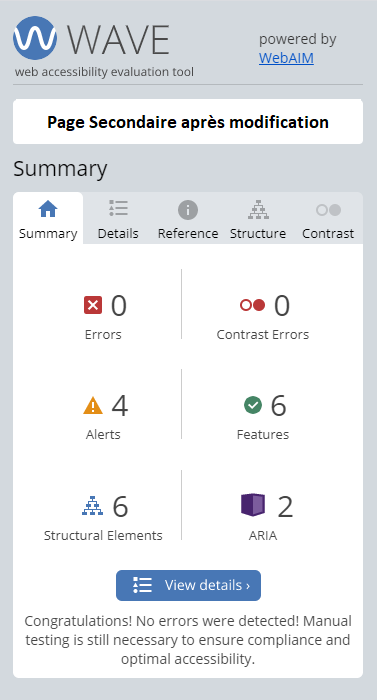
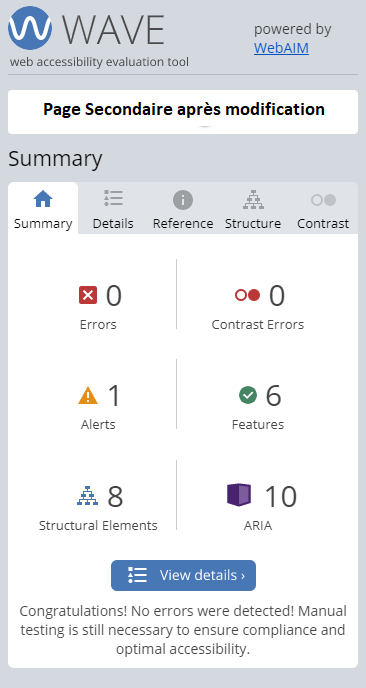
Correction du projet
Correction de certains problème.
Suppression du javascript

diff --git a/page2.html b/page2.html
@@ -15,12 +15,6 @@
 	<link rel="stylesheet" type="text/css" href="./css/font-awesome.css">
 	<link rel="stylesheet" type="text/css" href="./css/et-line.css">
 
-
-	<script src="./js/jquery-2.1.0.js"></script>
-	<script src="./js/bootstrap.js"></script>
-	<script src="./js/blocs.js"></script>
-	<script src="./js/jqBootstrapValidation.js"></script>
-	<script src="./js/formHandler.js"></script>
 	<title>Contact</title>
 
 
@@ -73,10 +67,10 @@
 						<h1 class="text-center hero-bloc-text tc-white-secondaire">
 							Parlons web design !
 						</h1>
-						<p class="text-center mg-lg tc-white-secondaire tight-width-whitespace">
+						<h2 class="text-center mg-lg tc-white-secondaire tight-width-whitespace">
 							Nous sommes ravis que vous souhaitiez collaborer avec notre agence.<br>
 							Parlez-nous de votre projet en complétant le formulaire ci-dessous.
-						</p>
+						</h2>
 					</div>
 				</div>
 			</div>
@@ -93,28 +87,28 @@
 							<div class="form-group">
 								<label>
 									Nom
-									<input id="name" class="form-control" required />
+									<input id="name" class="form-control" aria-label="Entrez votre nom" required />
 								</label>
 
 							</div>
 							<div class="form-group">
 								<label>
 									Adresse email
-									<input id="email" class="form-control" type="email" required />
+									<input id="email" class="form-control" type="email" aria-label="Entrez votre Email" required />
 								</label>
 
 							</div>
 							<div class="form-group">
 								<label>
 									Comment nous avez-vous connu ?
-									<input class="form-control" type="email" required id="input_504" />
+									<input class="form-control" type="text" required id="input_504" aria-label="Indiquez comment vous nous avez connu" />
 								</label>
 
 							</div>
 							<div class="form-group">
 								<label>
 									Brief de votre projet (Ajoutez autant de détails que nécessaire)<br>
-									<textarea id="message" class="form-control" rows="4" cols="50" required></textarea>
+									<textarea id="message" class="form-control" rows="4" cols="50" aria-label="Décrivez nous votre projet en détail" required></textarea>
 								</label>
 							</div>
 							<button class="bloc-button btn btn-lg btn-block cta-hero btn-atomic-tangerine" type="submit"
@@ -123,12 +117,12 @@
 							</button>
 						</form>
 					</div>
-					<div class="col-sm-6">
+					<aside class="col-sm-6">
 						<p>
 							contact@lachouetteagence.com<br>2 place Sathonay 69001 Lyon<br>Ouvert de 9h à 18h, du lundi
 							au vendredi<br>
 						</p>
-					</div>
+					</aside>
 				</div>
 			</div>
 		</article>
@@ -151,7 +145,7 @@
 						<div class="row row-no-gutters social">
 							<div class="col-sm-3">
 								<div class="text-center">
-									<a class="social" href="index.html">
+									<a class="social" aria-label="Lien vers Twitter" href="https://twitter.com/home?lang=fr">
 										<div class="fa fa-twitter icon-md" id="twitter"><br>
 											<p class="liensociaux">	Twitter</p>
 										</div>
@@ -160,7 +154,7 @@
 							</div>
 							<div class="col-sm-3">
 								<div class="text-center">
-									<a class="social" href="index.html">
+									<a class="social" aria-label="Lien vers Facebook" href="https://www.facebook.com/">
 										<div class="fa fa-facebook icon-md" id="facebook"><br>
 										<p class="liensociaux">	Facebook</p>
 										</div>
@@ -169,7 +163,7 @@
 							</div>
 							<div class="col-sm-3">
 								<div class="text-center">
-									<a class="social" href="index.html">
+									<a class="social" aria-label="Lien vers Dribble" href="https://dribbble.com/">
 										<div class="fa fa-dribbble icon-md" id="dribble"><br>
 											<p class="liensociaux">	Dribble</p>
 										</div>
@@ -178,7 +172,7 @@
 							</div>
 							<div class="col-sm-3">
 								<div class="text-center">
-									<a class="social" href="index.html">
+									<a class="social" aria-label="Lien vers Instagram" href="https://www.instagram.com/?hl=fr">
 										<div class="fa fa-instagram icon-md" id="instagram"><br>
 											<p class="liensociaux">	Instagram</p>
 										</div>

diff --git a/index.html b/index.html
@@ -15,13 +15,6 @@
 	<link rel="stylesheet" type="text/css" href="./css/font-awesome.css">
 	<link rel="stylesheet" type="text/css" href="./css/et-line.css">
 
-
-	<script src="./js/jquery-2.1.0.js"></script>
-	<script src="./js/bootstrap.js"></script>
-	<script src="./js/blocs.js"></script>
-	<script src="./js/jquery.touchSwipe.js" defer></script>
-	<script src="./js/gmaps.js"></script>
-
 	<title>La chouette agence</title>
 
 
@@ -52,12 +45,12 @@
 					<div class="collapse navbar-collapse navbar-1 special-dropdown-nav">
 						<ul class="site-navigation nav navbar-nav">
 							<li>
-								<a tabindex="0" href="index.html" inputmode="accueil">Accueil</a>
+								<a tabindex="0" href="index.html" aria-label="Page d'accueil" inputmode="accueil">Accueil</a>
 							</li>
 							<li>
 							</li>
 							<li>
-								<a tabindex="0" href="page2.html">Contact</a>
+								<a tabindex="0" href="page2.html" aria-label="Page de Contact">Contact</a>
 							</li>
 						</ul>
 					</div>
@@ -246,7 +239,7 @@
 						Prêt pour redonner vie à votre projet ?<br>Contactez notre équipe !
 					</h2>
 					<div class="col-sm-12 text-center">
-						<a href="page2.html" class="btn btn-atomic-tangerine btn-clean btn-rd btn-lg cta-hero"
+						<a href="page2.html" class="btn btn-atomic-tangerine btn-clean btn-rd btn-lg cta-hero" aria-label="Aller sur la page Contact" 
 							role="button">Contact</a>
 					</div>
 				</div>
@@ -265,7 +258,7 @@
 						<div class="row row-no-gutters social">
 							<div class="col-sm-3">
 								<div class="text-center">
-									<a class="social" href="index.html">
+									<a class="social" aria-label="Lien vers Twitter" href="https://twitter.com/home?lang=fr">
 										<div class="fa fa-twitter icon-md" id="twitter"><br>
 											<p class="liensociaux"> Twitter</p>
 										</div>
@@ -274,7 +267,7 @@
 							</div>
 							<div class="col-sm-3">
 								<div class="text-center">
-									<a class="social" href="index.html">
+									<a class="social" aria-label="Lien vers Facebook" href="https://www.facebook.com/">
 										<div class="fa fa-facebook icon-md" id="facebook"><br>
 											<p class="liensociaux"> Facebook</p>
 										</div>
@@ -283,7 +276,7 @@
 							</div>
 							<div class="col-sm-3">
 								<div class="text-center">
-									<a class="social" href="index.html">
+									<a class="social" aria-label="Lien vers Dribble" href="https://dribbble.com/">
 										<div class="fa fa-dribbble icon-md" id="dribble"><br>
 											<p class="liensociaux"> Dribble</p>
 										</div>
@@ -292,7 +285,7 @@
 							</div>
 							<div class="col-sm-3">
 								<div class="text-center">
-									<a class="social" href="index.html">
+									<a class="social" aria-label="Lien vers Instagram" href="https://www.instagram.com/?hl=fr">
 										<div class="fa fa-instagram icon-md" id="instagram"><br>
 											<p class="liensociaux"> Instagram</p>
 										</div>

diff --git a/style.css b/style.css
@@ -730,7 +730,7 @@ a {
 }
 
 p {
-    font-size: 11px;
+    font-size: 12px;
 }
 
 .tight-width-whitespace {
